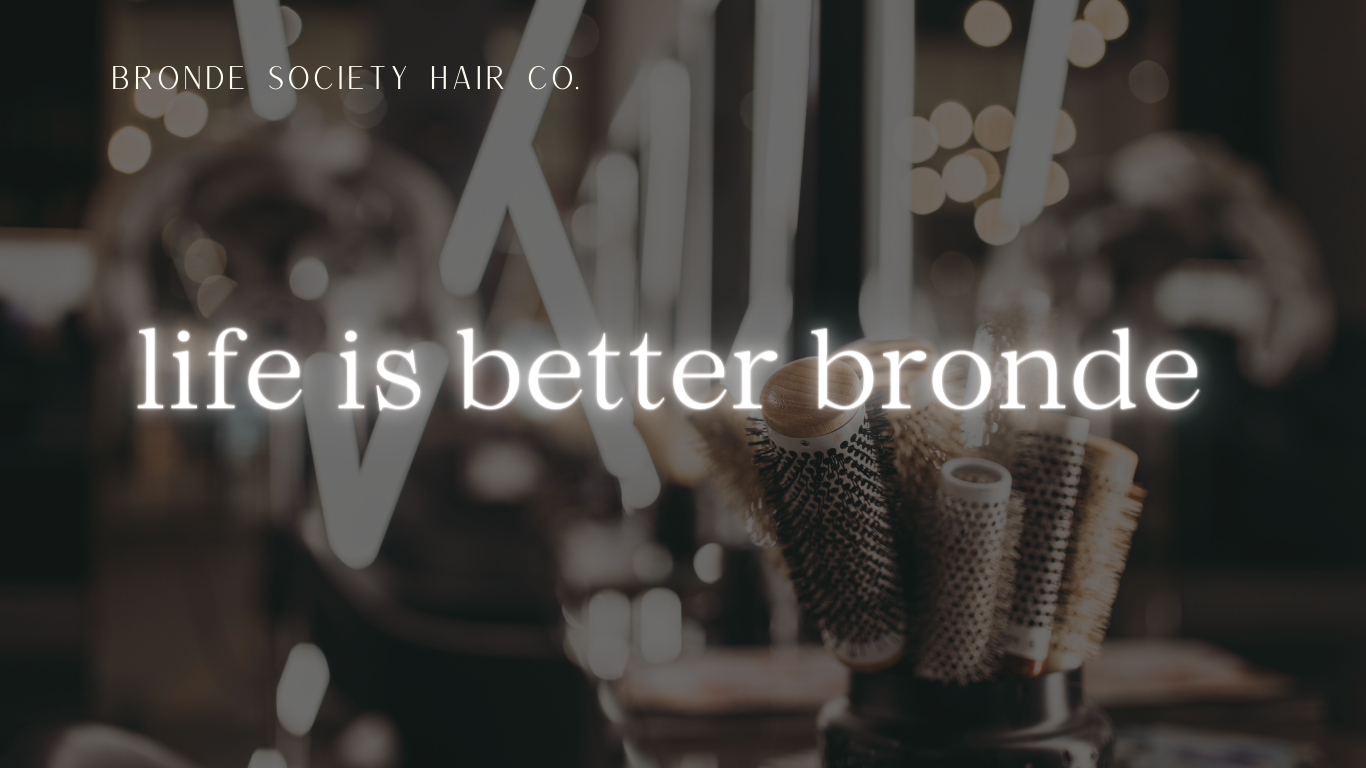
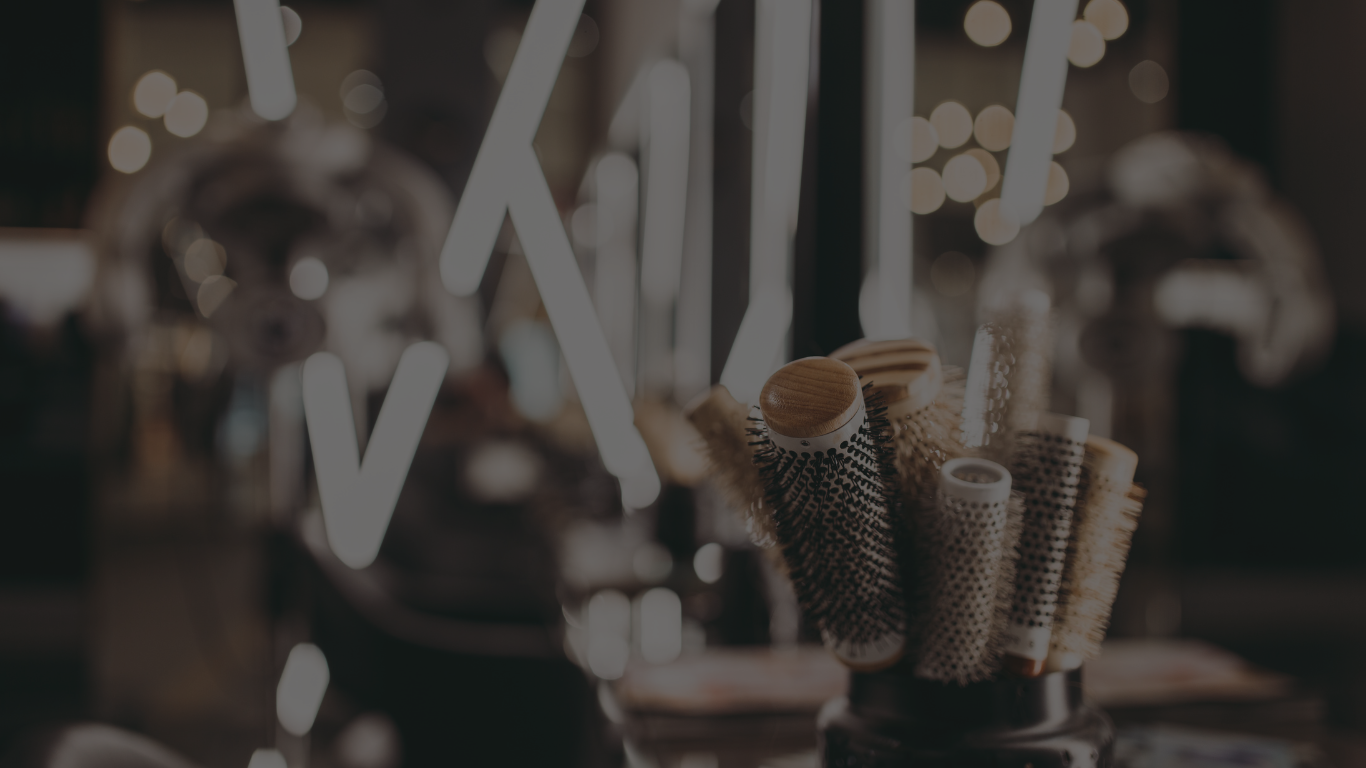
Update Home Page on Mobile

diff --git a/src/index.css b/src/index.css
@@ -96,21 +96,46 @@ a:link, a:visited, a:hover, a:active {
     margin: 0;
     overflow: hidden;
     will-change: transform;
-    background: url("./Assets/images/home.png") no-repeat scroll center top transparent;
+    background: url("../public/images/home.png") no-repeat scroll center top transparent;
     background-origin: content-box;
     background-size: cover;
 }
 
 .centered {
     position: absolute;
-    top: 75%;
+    top: 65%;
     left: 50%;
     transform: translate(-50%, -50%);
     color: #fffcf0;
     border: 2px solid #fffcf0;
     padding: 1vh;
-
+    text-align: center;
 }
+
+.home-title {
+    position: absolute;
+    top: 5%;
+    left: 5%;
+    color: #fffcf0;
+    font-size: 20px;
+    
+}
+
+.home-slogan {
+    position: absolute;
+    top: 35%;
+    transform: translate(-50%, -50%);
+    left: 50%;
+    color: #ffffff;
+    font-size: 40px;
+    border: solid green 2px;
+    text-align: center;
+    width: 80%;
+    font-family: 'Lora', serif;
+    text-shadow: 0 0 10px rgba(255, 255, 255, 0.5), 0 0 20px rgba(255, 255, 255, 0.5), 0 0 30px rgba(255, 255, 255, 0.5), 0 0 40px rgba(255, 255, 255, 0.5), 0 0 70px rgba(255, 255, 255, 0.5), 0 0 80px rgba(255, 255, 255, 0.5), 0 0 100px rgba(255, 255, 255, 0.5);
+}
+
+
 
 
 /*about jess*/

diff --git a/public/index.html b/public/index.html
@@ -19,6 +19,7 @@
     <link rel="preconnect" href="https://fonts.gstatic.com" crossorigin>
     <link href="https://fonts.googleapis.com/css2?family=Montserrat:wght@500&family=Open+Sans:wght@700&display=swap" rel="stylesheet">
     <link href="https://fonts.cdnfonts.com/css/brittany-signature" rel="stylesheet">
+    <link href="https://fonts.googleapis.com/css2?family=Lora&family=Montserrat:wght@500&family=Open+Sans:wght@700&display=swap" rel="stylesheet">
     <!--
       Notice the use of %PUBLIC_URL% in the tags above.
       It will be replaced with the URL of the `public` folder during the build.

diff --git a/src/Home.js b/src/Home.js
@@ -4,8 +4,10 @@ export default function Home() {
   return (
     <>
       <div className="home">
-        <Link to="/book" >
-        <div className="centered">RESERVE HAIR THERAPY HERE</div>
+        <div className="home-title">BRONDE SOCIETY HAIR CO.</div>
+        <div className="home-slogan">life is better bronde</div>
+        <Link to="/book">
+          <div className="centered">RESERVE HAIR THERAPY HERE</div>
         </Link>
       </div>
     </>
